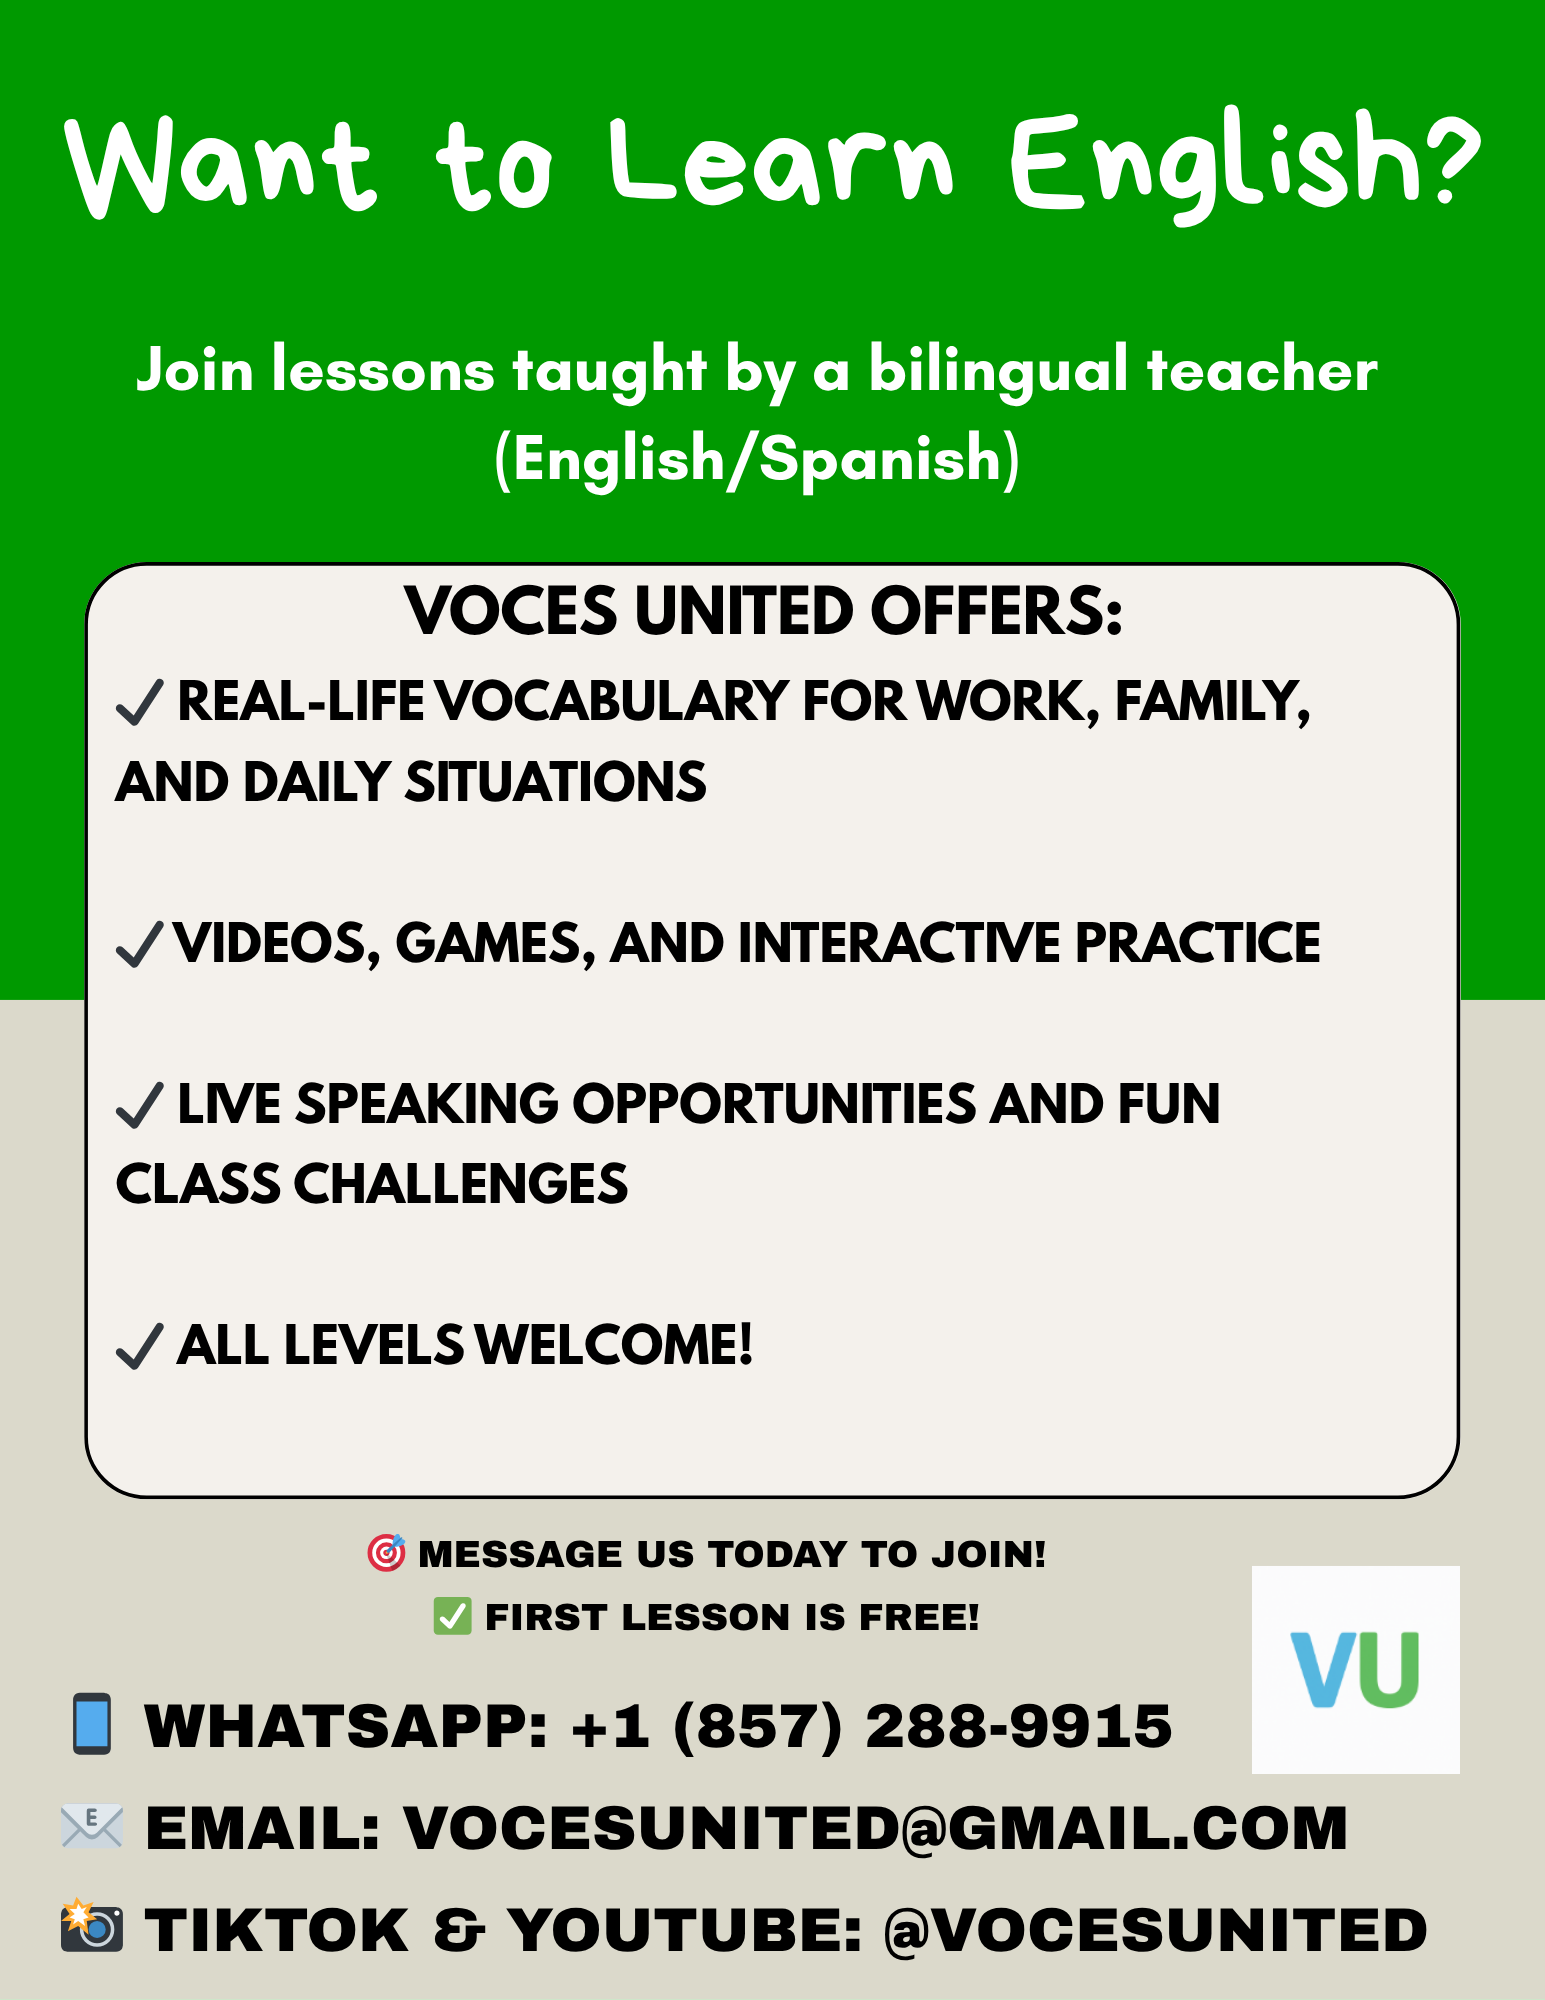
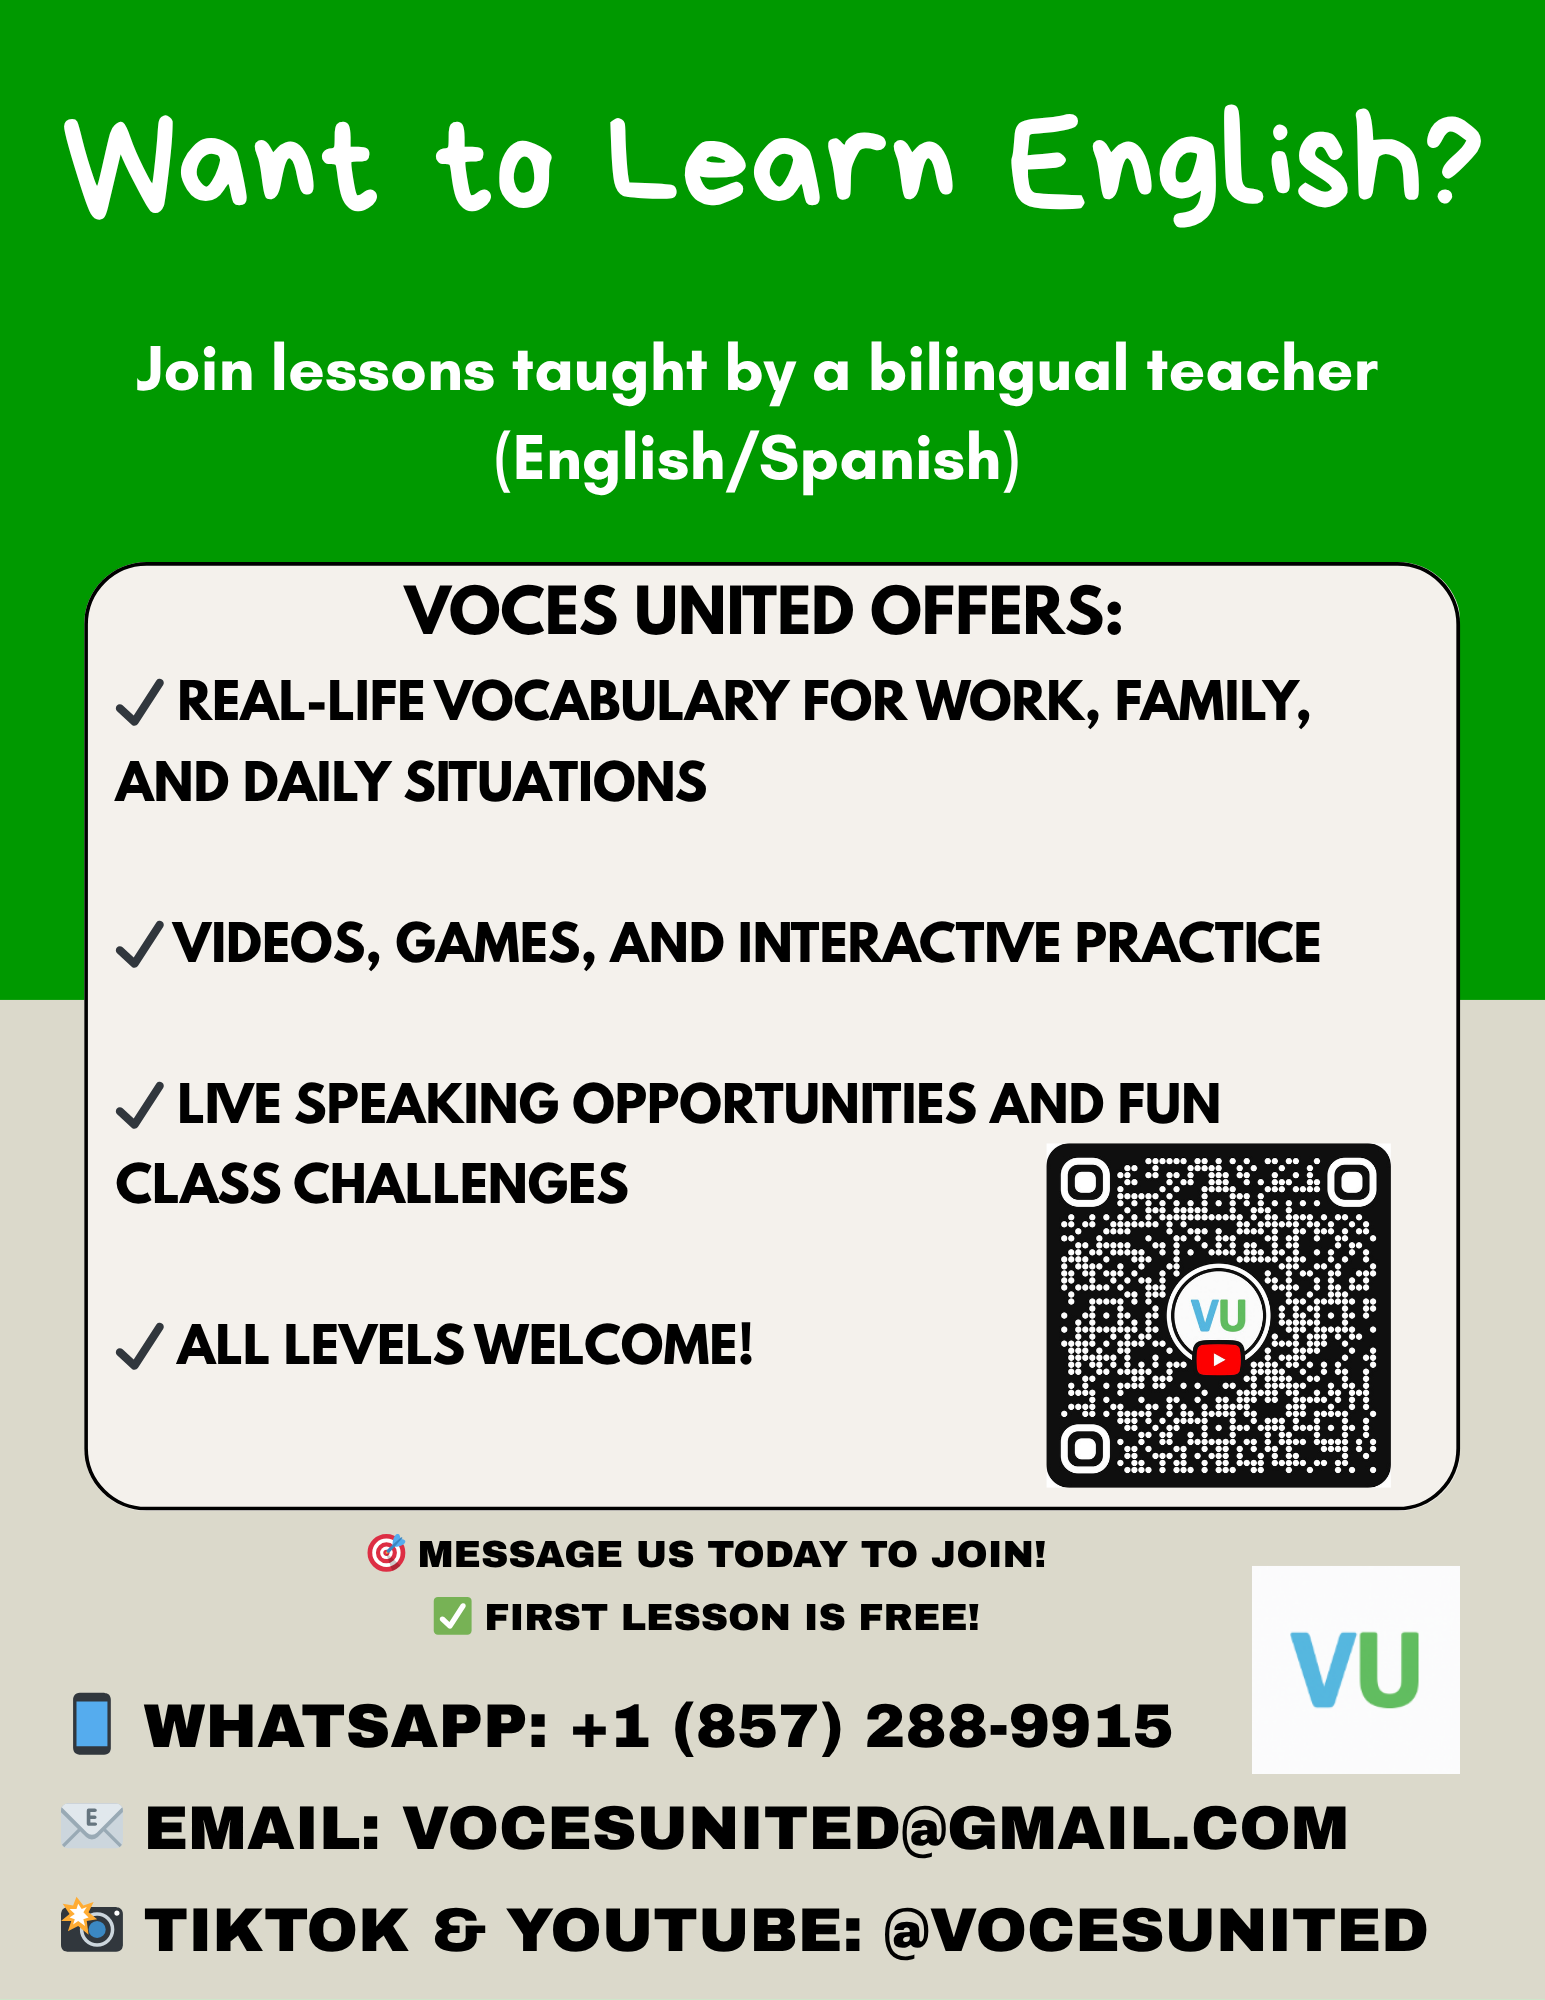
Updates on Present Simple page, added link to image on landing page

Changed region(s): [[0.0621, 0.558, 0.932, 0.775], [0.932, 0.713, 0.9631, 0.744]]

diff --git a/lessons/grammar/present-simple.html b/lessons/grammar/present-simple.html
@@ -6,113 +6,243 @@
   <title>Present Simple - Voces United</title>
   <link rel="stylesheet" href="../../styles.css" />
   <link rel="icon" href="../../assets/images/favicon.png" type="image/png">
+  <style>
+    .lesson-content {
+      padding: 20px;
+    }
+    .grammar-section img.diagram {
+      max-width: 100%;
+      margin-bottom: 20px;
+      border: 2px solid #4CAF50;
+      border-radius: 8px;
+    }
+    .exercise-section input {
+      margin-bottom: 10px;
+    }
+  </style>
 </head>
-<body>
-<header>
-  <div class="logo-container">
-    <img src="../../assets/images/logo.jpg" alt="Voces United Logo">
-  </div>
-  <div class="titles">
-    <h1>Present Simple</h1>
-    <p>Grammar Lesson: Learn the Present Simple tense in English</p>
-  </div>
-  <nav>
-    <ul class="navbar">
-      <li><a href="../../index.html">Home</a></li>
-      <li><a href="../../lessons/vocabulary/index.html">Vocabulary</a></li>
-      <li><a href="../../lessons/pronunciation/index.html">Pronunciation</a></li>
-      <li><a href="../../lessons/grammar/index.html">Grammar</a></li>
-      <li><a href="../../lessons/videos/index.html">Videos</a></li>
-      <li><a href="../../lessons/activities/index.html">Activities</a></li>
+<body id="present-simple">
+  <header>
+    <div class="logo-container">
+      <img src="../../assets/images/logo.jpg" alt="Voces United Logo">
+    </div>
+    <div class="titles">
+      <h1>Present Simple</h1>
+      <p>Grammar Lesson: Learn how and when to use the Present Simple tense</p>
+    </div>
+    <nav>
+      <ul class="navbar">
+        <li><a href="../../index.html">Home</a></li>
+        <li><a href="../../lessons/vocabulary/index.html">Vocabulary</a></li>
+        <li><a href="../../lessons/pronunciation/index.html">Pronunciation</a></li>
+        <li><a href="../../lessons/grammar/index.html">Grammar</a></li>
+        <li><a href="../../lessons/videos/index.html">Videos</a></li>
+        <li><a href="../../lessons/activities/index.html">Activities</a></li>
+      </ul>
+    </nav>
+  </header>
+
+  <section class="lesson-content">
+    <h2>What is the Present Simple?</h2>
+    <img src="../../assets/images/lessons/present-simple-uses.png" alt="Present Simple Verb Chart" class="diagram">
+    <p>The Present Simple tense is used to describe:</p>
+    <ul>
+      <li>Things that are always true ("The sun rises in the east.")</li>
+      <li>Habits or routines ("I work every day.")</li>
+      <li>General facts or feelings ("She likes pizza.")</li>
     </ul>
-  </nav>
-</header>
 
-<section>
-  <h2>What is the Present Simple Tense?</h2>
-  <p>The Present Simple is used for routines, habits, facts, and general truths. It describes actions that happen regularly or things that are always true.</p>
-  <ul>
-    <li><strong>I work</strong> every day.</li>
-    <li><strong>She eats</strong> lunch at noon.</li>
-    <li><strong>The sun rises</strong> in the east.</li>
-  </ul>
-</section>
+    <h3>How to Form the Present Simple</h3>
+    <ul>
+      <li><strong>I/You/We/They + base verb</strong> → <em>"They play football."</em></li>
+      <li><strong>He/She/It + verb + s/es</strong> → <em>"He plays football."</em> <em>"She watches the game."</em></li>
+    </ul>
+    <img src="../../assets/images/lessons/present-simple-diagram.png" alt="Present Simple Verb Chart" class="diagram">
 
-<section>
-  <h2>When to Use the Present Simple</h2>
-  <ul>
-    <li>Daily routines: <em>I brush my teeth every morning.</em></li>
-    <li>General truths: <em>Water boils at 100°C.</em></li>
-    <li>Scheduled events: <em>The train leaves at 6 PM.</em></li>
-    <li>Facts: <em>Birds fly.</em></li>
-  </ul>
-</section>
+    <h3>Spelling Tips</h3>
+    <ul>
+      <li>Add <strong>-s</strong> to most verbs (work → works)</li>
+      <li>Add <strong>-es</strong> for verbs ending in -sh, -ch, -x, -o (go → goes, watch → watches)</li>
+      <li>Change <strong>y → ies</strong> after a consonant (study → studies)</li>
+    </ul>
 
-<section>
-  <h2>Grammar Structure</h2>
-  <ul>
-    <li><strong>Affirmative:</strong> Subject + base verb (+ s/es for he/she/it)</li>
-    <li><strong>Negative:</strong> Subject + do/does not + base verb</li>
-    <li><strong>Question:</strong> Do/Does + subject + base verb?</li>
-  </ul>
-  <p><strong>Examples:</strong></p>
-  <ul>
-    <li>He <strong>plays</strong> soccer. (affirmative)</li>
-    <li>We <strong>don’t play</strong> soccer. (negative)</li>
-    <li><strong>Do</strong> they <strong>play</strong> soccer? (question)</li>
-  </ul>
-</section>
+    <h3>Examples</h3>
+    <ul>
+      <li>I eat breakfast at 8.</li>
+      <li>She goes to work.</li>
+      <li>We live in New York.</li>
+      <li>He plays guitar.</li>
+    </ul>
 
-<section>
-  <h2>Practice Exercises</h2>
-  <p>Fill in the blanks with the correct form of the verb in Present Simple:</p>
-  <ol>
-    <li>She __________ (go) to school every day.</li>
-    <li>We __________ (not/watch) TV in the morning.</li>
-    <li>__________ he __________ (like) pizza?</li>
-    <li>The dog __________ (bark) at strangers.</li>
-    <li>I __________ (read) before bed.</li>
-  </ol>
-</section>
 
-<section id="quiz" class="grammar-section">
-  <h2>Present Simple Quiz</h2>
-  <div id="quiz-container">
+    <table class="verb-table">
+        <thead>
+          <tr>
+            <th>Verb</th>
+            <th>I / You / We / They</th>
+            <th>He / She / It</th>
+            <th>Spanish</th>
+          </tr>
+        </thead>
+        <tbody>
+            <tr><td>to work</td><td>work</td><td>works</td><td>trabajar</td></tr>
+            <tr><td>to go</td><td>go</td><td>goes</td><td>ir</td></tr>
+            <tr><td>to study</td><td>study</td><td>studies</td><td>estudiar</td></tr>
+            <tr><td>to eat</td><td>eat</td><td>eats</td><td>comer</td></tr>
+            <tr><td>to want</td><td>want</td><td>wants</td><td>querer</td></tr>
+            <tr><td>to look</td><td>look</td><td>looks</td><td>mirar</td></tr>
+            <tr><td>to use</td><td>use</td><td>uses</td><td>usar</td></tr>
+            <tr><td>to work</td><td>work</td><td>works</td><td>trabajar</td></tr>
+            <tr><td>to call</td><td>call</td><td>calls</td><td>llamar</td></tr>
+            <tr><td>to try</td><td>try</td><td>tries</td><td>intentar</td></tr>
+            <tr><td>to ask</td><td>ask</td><td>asks</td><td>preguntar</td></tr>
+            <tr><td>to need</td><td>need</td><td>needs</td><td>necesitar</td></tr>
+            <tr><td>to help</td><td>help</td><td>helps</td><td>ayudar</td></tr>
+            <tr><td>to talk</td><td>talk</td><td>talks</td><td>hablar</td></tr>
+            <tr><td>to start</td><td>start</td><td>starts</td><td>empezar</td></tr>
+            <tr><td>to play</td><td>play</td><td>plays</td><td>jugar</td></tr>
+            <tr><td>to move</td><td>move</td><td>moves</td><td>mover</td></tr>
+            <tr><td>to like</td><td>like</td><td>likes</td><td>gustar</td></tr>
+            <tr><td>to live</td><td>live</td><td>lives</td><td>vivir</td></tr>
+            <tr><td>to believe</td><td>believe</td><td>believes</td><td>creer</td></tr>
+            <tr><td>to think</td><td>think</td><td>thinks</td><td>pensar</td></tr>
+            <tr><td>to watch</td><td>watch</td><td>watches</td><td>ver</td></tr>
+            <tr><td>to follow</td><td>follow</td><td>follows</td><td>seguir</td></tr>
+        </tbody>
+      </table>
+  </section>
+
+  <section class="exercise-section">
+    <h2>Mini Exercise</h2>
+    <p>Complete each sentence with the correct form of the verb.</p>
+    <ol>
+        <li>I _____ (read) every night. <input type="text" id="q1"></li>
+        <li>She _____ (cook) dinner. <input type="text" id="q2"></li>
+        <li>They _____ (want) a dog. <input type="text" id="q3"></li>
+        <li>He _____ (study) English. <input type="text" id="q4"></li>
+        <li>You _____ (go) to the store every day. <input type="text" id="q5"></li>
+        <li>My mother _____ (call) me in the evenings. <input type="text" id="q6"></li>
+        <li>We _____ (try) a new recipe once a month. <input type="text" id="q7"></li>
+        <li>She _____ (like) to listen to music. <input type="text" id="q8"></li>
+        <li>The dog _____ (play) in the yard. <input type="text" id="q9"></li>
+        <li>The president _____ (live) in the White House. <input type="text" id="q10"></li>
+    </ol>
+    <button onclick="checkExerciseAnswers()">Check Answers</button>
+    <p id="exercise-result"></p>
+  </section>
+
+  <section class="quiz-section">
+    <h2>Present Simple Quiz</h2>
     <div class="quiz-question">
-      <p><strong>1. What is the correct sentence?</strong></p>
-      <button onclick="selectAnswer(this, 'correct')">He eats breakfast.</button>
-      <button onclick="selectAnswer(this, 'incorrect')">He eat breakfast.</button>
-      <button onclick="selectAnswer(this, 'incorrect')">He eating breakfast.</button>
+      <p><strong>1. He _____ to school every day.</strong></p>
+      <button onclick="selectAnswer(this, 'correct')">goes</button>
+      <button onclick="selectAnswer(this, 'incorrect')">go</button>
+      <button onclick="selectAnswer(this, 'incorrect')">going</button>
     </div>
-    <div class="quiz-question">
-      <p><strong>2. Which sentence is a question?</strong></p>
-      <button onclick="selectAnswer(this, 'correct')">Do you like apples?</button>
-      <button onclick="selectAnswer(this, 'incorrect')">I like apples.</button>
-      <button onclick="selectAnswer(this, 'incorrect')">You likes apples.</button>
-    </div>
-    <div class="quiz-question">
-      <p><strong>3. Choose the correct negative sentence:</strong></p>
-      <button onclick="selectAnswer(this, 'incorrect')">She no like tea.</button>
-      <button onclick="selectAnswer(this, 'correct')">She doesn’t like tea.</button>
-      <button onclick="selectAnswer(this, 'incorrect')">She don’t likes tea.</button>
-    </div>
-  </div>
-  <p id="quiz-result"></p>
-</section>
 
-<footer>
-  <p>Voces United © 2025 – Empowering through language</p>
-</footer>
+    <div class="quiz-question">
+      <p><strong>2. I _____ coffee in the morning.</strong></p>
+      <button onclick="selectAnswer(this, 'incorrect')">drinks</button>
+      <button onclick="selectAnswer(this, 'incorrect')">drinking</button>
+      <button onclick="selectAnswer(this, 'correct')">drink</button>
+    </div>
 
-<script src="../../assets/js/quiz.js"></script>
-<script>
-function selectAnswer(button, result) {
-  if (result === 'correct') {
-    button.style.backgroundColor = '#c8e6c9';
-  } else {
-    button.style.backgroundColor = '#ffcdd2';
-  }
-}
-</script>
+    <div class="quiz-question">
+      <p><strong>3. They _____ football every weekend.</strong></p>
+      <button onclick="selectAnswer(this, 'incorrect')">plays</button>
+      <button onclick="selectAnswer(this, 'correct')">play</button>
+      <button onclick="selectAnswer(this, 'incorrect')">playing</button>
+    </div>
+
+    <div class="quiz-question">
+      <p><strong>4. She _____ in a bank.</strong></p>
+      <button onclick="selectAnswer(this, 'incorrect')">work</button>
+      <button onclick="selectAnswer(this, 'correct')">works</button>
+      <button onclick="selectAnswer(this, 'incorrect')">working</button>
+    </div>
+
+    <div class="quiz-question">
+      <p><strong>5. We _____ in California.</strong></p>
+      <button onclick="selectAnswer(this, 'correct')">live</button>
+      <button onclick="selectAnswer(this, 'incorrect')">lives</button>
+      <button onclick="selectAnswer(this, 'incorrect')">living</button>
+    </div>
+
+    <div class="quiz-question">
+      <p><strong>6. My mom _____ breakfast at 7.</strong></p>
+      <button onclick="selectAnswer(this, 'incorrect')">make</button>
+      <button onclick="selectAnswer(this, 'incorrect')">making</button>
+      <button onclick="selectAnswer(this, 'correct')">makes</button>
+    </div>
+
+    <div class="quiz-question">
+      <p><strong>7. The dog _____ in the yard.</strong></p>
+      <button onclick="selectAnswer(this, 'incorrect')">run</button>
+      <button onclick="selectAnswer(this, 'correct')">runs</button>
+      <button onclick="selectAnswer(this, 'incorrect')">running</button>
+    </div>
+
+    <div class="quiz-question">
+      <p><strong>8. I _____ my homework every day.</strong></p>
+      <button onclick="selectAnswer(this, 'correct')">do</button>
+      <button onclick="selectAnswer(this, 'incorrect')">does</button>
+      <button onclick="selectAnswer(this, 'incorrect')">doing</button>
+    </div>
+
+    <div class="quiz-question">
+      <p><strong>9. You _____ very well.</strong></p>
+      <button onclick="selectAnswer(this, 'incorrect')">speaks</button>
+      <button onclick="selectAnswer(this, 'incorrect')">speaking</button>
+      <button onclick="selectAnswer(this, 'correct')">speak</button>
+    </div>
+
+    <div class="quiz-question">
+      <p><strong>10. It _____ a lot in April.</strong></p>
+      <button onclick="selectAnswer(this, 'incorrect')">rain</button>
+      <button onclick="selectAnswer(this, 'incorrect')">raining</button>
+      <button onclick="selectAnswer(this, 'correct')">rains</button>
+    </div>
+
+    <p id="quiz-result"></p>
+  </section>
+
+  <footer>
+    <p>Voces United © 2025 – Empowering through language</p>
+  </footer>
+
+  <script src="../../script.js"></script>
+  <script>
+    function checkExerciseAnswers() {
+      const answers = {
+        q1: "read",
+        q2: "cooks",
+        q3: "want",
+        q4: "studies",
+        q5: "go",
+        q6: "calls",
+        q7: "try",
+        q8: "likes",
+        q9: "plays",
+        q10: "lives"
+      };
+    
+      let correctCount = 0;
+    
+      for (const [id, correctAnswer] of Object.entries(answers)) {
+        const userAnswer = document.getElementById(id).value.trim().toLowerCase();
+        if (userAnswer === correctAnswer) {
+          correctCount++;
+          document.getElementById(id).style.border = "2px solid green";
+        } else {
+          document.getElementById(id).style.border = "2px solid red";
+        }
+      }
+    
+      document.getElementById("exercise-result").innerText =
+        `You got ${correctCount} out of ${Object.keys(answers).length} correct.`;
+    }
+    </script>
+  <script src="../../assets/js/quiz.js"></script>
 </body>
 </html>
+

diff --git a/index.html b/index.html
@@ -36,7 +36,9 @@
         <p style="max-width: 600px; margin: 20px auto; font-size: 1.1em;">
             Each lesson includes vocabulary, real-life practice, pronunciation help, and interactive activities to help you take the next step - one day at a time.
         </p>
-        <img src="assets/images/flyer.png" height="750px">
+        <a href="https://www.youtube.com/@VocesUnited">
+            <img src="assets/images/flyer.png" height="750px">
+        </a>
         
     </section>
 

diff --git a/styles.css b/styles.css
@@ -447,3 +447,20 @@ footer {
 #examples img:hover{
     cursor: pointer;
 }
+
+.verb-table {
+    width: 100%;
+    border-collapse: collapse;
+    margin-top: 20px;
+}
+  
+.verb-table th, .verb-table td {
+    border: 1px solid #4CAF50;
+    padding: 12px;
+    text-align: center;
+}
+  
+.verb-table th {
+    background-color: #4CAF50;
+    color: white;
+}
